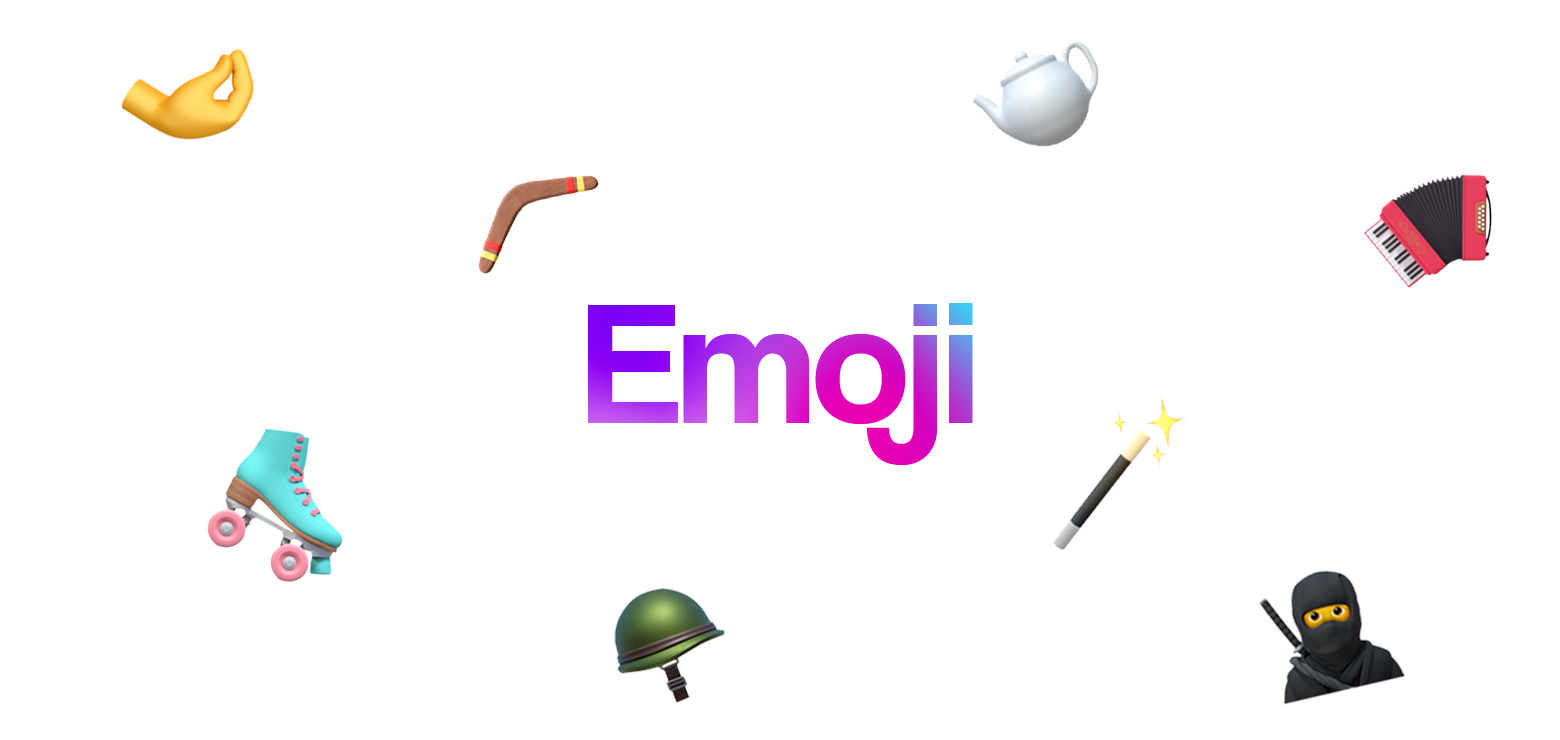
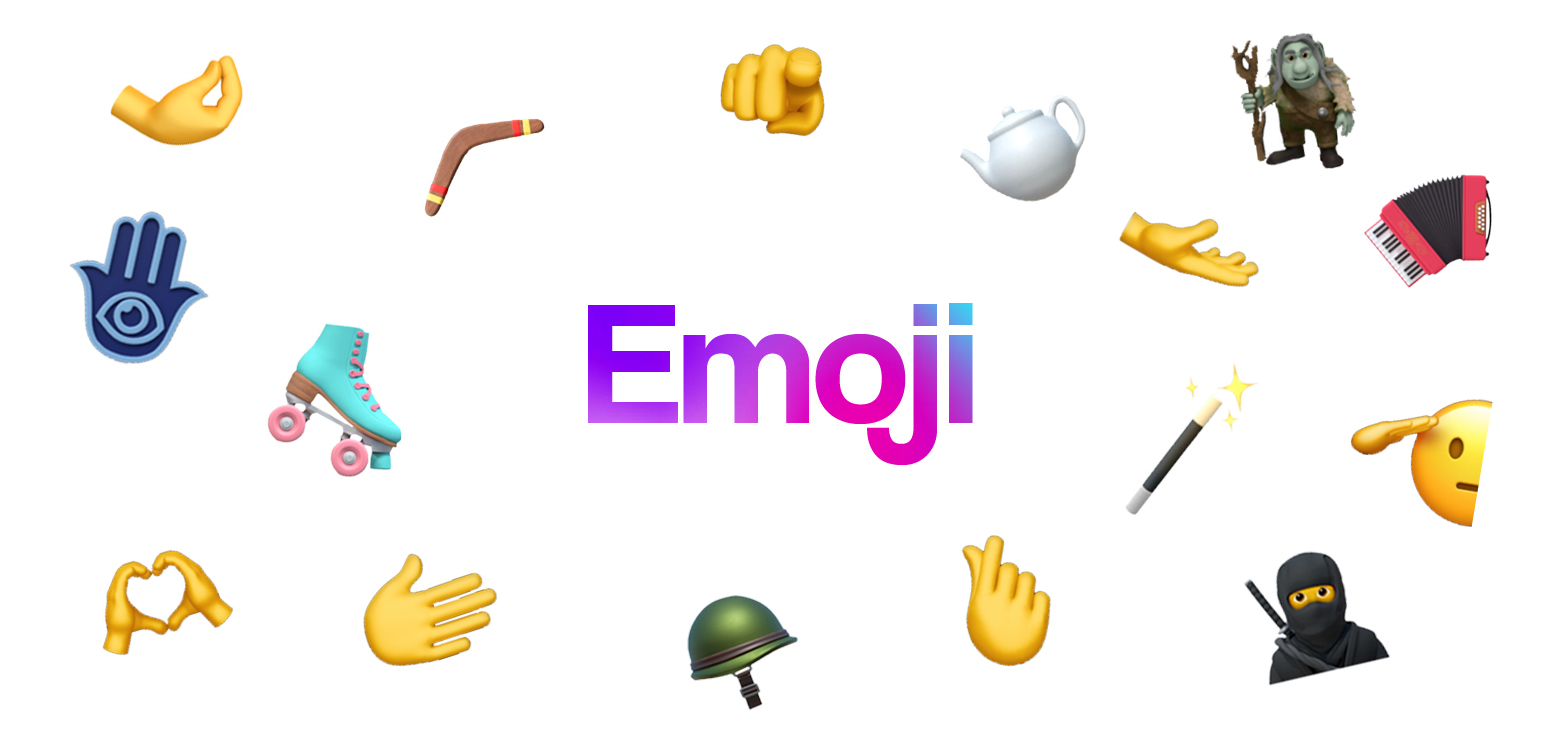
update emoji page with Unicode 14 contributions and update year footer

diff --git a/emoji.html b/emoji.html
@@ -91,7 +91,7 @@
                         <div class="detail" id="sticky_item">
                             <div class="animate-box">
                                 <h2>Emoji</h2>
-                                <p>iOS Emoji created for Unicode 13.0.</p>
+                                <p>iOS Emoji created for Unicode 13 and 14.</p>
                             </div>
                         </div>
                     </div>
@@ -113,7 +113,7 @@
                 <div class="row copyright">
                     <div class="col-md-12 text-center">
                         <p>
-                            <small class="block">&copy; 2021 JD Gardner</small>
+                            <small class="block">&copy; 2022 JD Gardner</small>
                         </p>
                     </div>
                 </div>

diff --git a/about.html b/about.html
@@ -126,7 +126,7 @@
                     <div class="row copyright">
                         <div class="col-md-12 text-center">
                             <p>
-                                <small class="block">&copy; 2021 JD Gardner</small>
+                                <small class="block">&copy; 2022 JD Gardner</small>
                             </p>
                         </div>
                     </div>

diff --git a/joji.html b/joji.html
@@ -170,7 +170,7 @@
                     <div class="row copyright">
                         <div class="col-md-12 text-center">
                             <p>
-                                <small class="block">&copy; 2021 JD Gardner</small>
+                                <small class="block">&copy; 2022 JD Gardner</small>
                             </p>
                         </div>
                     </div>

diff --git a/moonbot.html b/moonbot.html
@@ -153,7 +153,7 @@
                     <div class="row copyright">
                         <div class="col-md-12 text-center">
                             <p>
-                                <small class="block">&copy; 2021 JD Gardner</small>
+                                <small class="block">&copy; 2022 JD Gardner</small>
                             </p>
                         </div>
                     </div>

diff --git a/personal.html b/personal.html
@@ -154,7 +154,7 @@
                     <div class="row copyright">
                         <div class="col-md-12 text-center">
                             <p>
-                                <small class="block">&copy; 2021 JD Gardner</small>
+                                <small class="block">&copy; 2022 JD Gardner</small>
                             </p>
                         </div>
                     </div>

diff --git a/pixar.html b/pixar.html
@@ -145,7 +145,7 @@
                     <div class="row copyright">
                         <div class="col-md-12 text-center">
                             <p>
-                                <small class="block">&copy; 2021 JD Gardner</small>
+                                <small class="block">&copy; 2022 JD Gardner</small>
                             </p>
                         </div>
                     </div>

diff --git a/ARQL.html b/ARQL.html
@@ -126,7 +126,7 @@
                 <div class="row copyright">
                     <div class="col-md-12 text-center">
                         <p>
-                            <small class="block">&copy; 2021 JD Gardner</small>
+                            <small class="block">&copy; 2022 JD Gardner</small>
                         </p>
                     </div>
                 </div>

diff --git a/memoji.html b/memoji.html
@@ -144,7 +144,7 @@
                 <div class="row copyright">
                     <div class="col-md-12 text-center">
                         <p>
-                            <small class="block">&copy; 2021 JD Gardner</small>
+                            <small class="block">&copy; 2022 JD Gardner</small>
                         </p>
                     </div>
                 </div>

diff --git a/index.html b/index.html
@@ -160,7 +160,7 @@
 			<div class="row copyright">
 				<div class="col-md-12 text-center">
 					<p>
-						<small class="block">&copy; 2021 JD Gardner</small> 
+						<small class="block">&copy; 2022 JD Gardner</small> 
 					</p>
 				</div>
 			</div>
